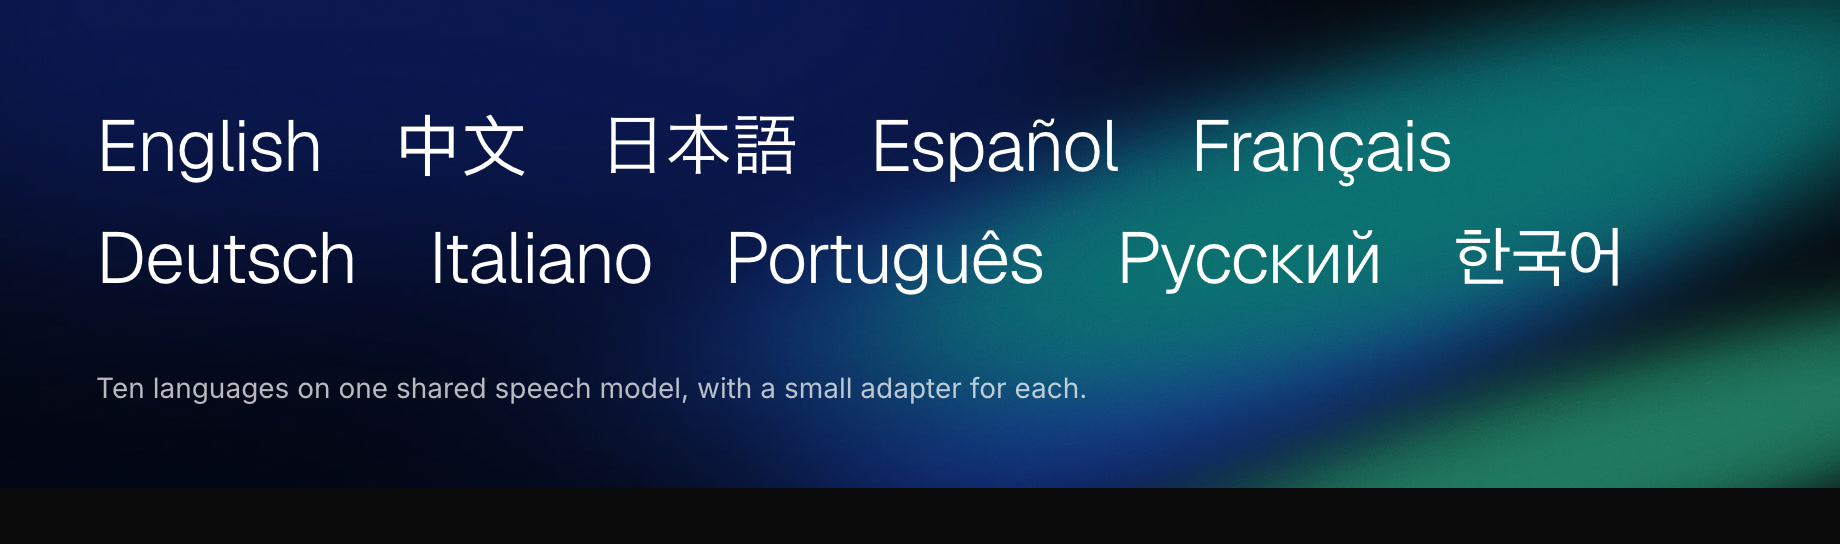
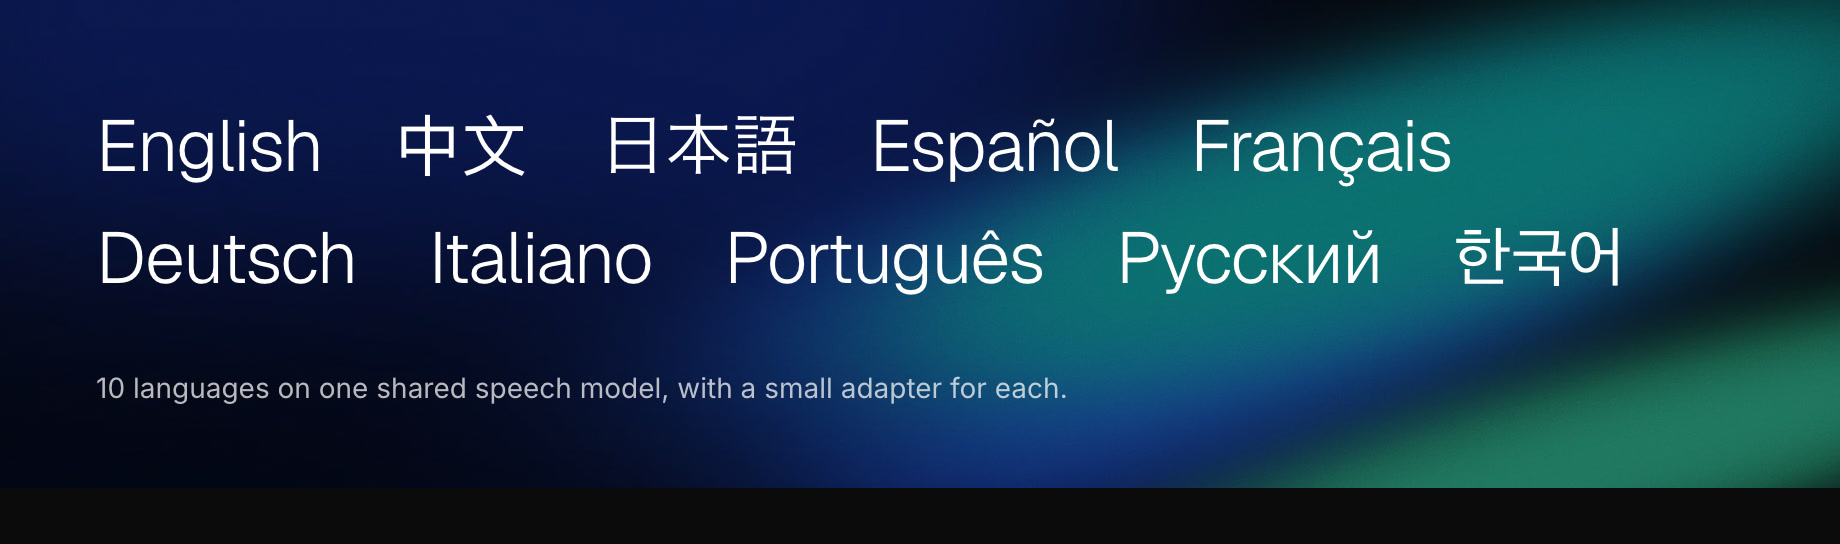
README rebuilt around a key-figures strip, the languages card and an architecture graphic; root folder tidied

Changed region(s): [[0.031, 0.6875, 0.5886, 0.75]]

diff --git a/site/index.html b/site/index.html
@@ -226,7 +226,7 @@ footer p{margin:0}
     <li lang="en">English</li><li lang="zh">中文</li><li lang="ja">日本語</li><li lang="es">Español</li><li lang="fr">Français</li>
     <li lang="de">Deutsch</li><li lang="it">Italiano</li><li lang="pt">Português</li><li lang="ru">Русский</li><li lang="ko">한국어</li>
   </ul>
-  <p>Ten languages on one shared speech model, with a small adapter for each.</p>
+  <p>10 languages on one shared speech model, with a small adapter for each.</p>
 </div>
 <!-- gen:chart-tally -->
 <figure class="chart"><div class="ch-head stack"><figcaption>Comparisons with Azure, by language</figcaption><div class="ch-key"><span><i class="own"></i>Pronunciada significantly better</span><span><i class="same"></i>No significant difference</span><span><i class="behind"></i>Azure significantly better</span></div></div><div class="tl"><div class="tl-row"><span class="tl-name">English</span><span class="tl-bar"><i class="own" style="width:68.42%">13</i><i class="same" style="width:21.05%">4</i><i class="behind" style="width:10.53%">2</i></span><span class="tl-n">of 19</span></div><div class="tl-row"><span class="tl-name">Mandarin</span><span class="tl-bar"><i class="own" style="width:31.58%">6</i><i class="same" style="width:52.63%">10</i></span><span class="tl-n">of 16</span></div><div class="tl-row"><span class="tl-name">Japanese</span><span class="tl-bar"><i class="own" style="width:21.05%">4</i><i class="same" style="width:10.53%">2</i></span><span class="tl-n">of 6</span></div><div class="tl-row"><span class="tl-name">Spanish</span><span class="tl-bar"><i class="own" style="width:21.05%">4</i><i class="same" style="width:10.53%">2</i></span><span class="tl-n">of 6</span></div><div class="tl-row"><span class="tl-name">French</span><span class="tl-bar"><i class="own" style="width:26.32%">5</i><i class="same" style="width:5.26%">1</i></span><span class="tl-n">of 6</span></div><div class="tl-row"><span class="tl-name">German</span><span class="tl-bar"><i class="own" style="width:15.79%">3</i><i class="same" style="width:21.05%">4</i></span><span class="tl-n">of 7</span></div><div class="tl-row"><span class="tl-name">Italian</span><span class="tl-bar"><i class="own" style="width:15.79%">3</i><i class="same" style="width:15.79%">3</i></span><span class="tl-n">of 6</span></div><div class="tl-row"><span class="tl-name">Portuguese</span><span class="tl-bar"><i class="own" style="width:21.05%">4</i><i class="same" style="width:10.53%">2</i></span><span class="tl-n">of 6</span></div><div class="tl-row"><span class="tl-name">Russian</span><span class="tl-bar"><i class="own" style="width:15.79%">3</i><i class="same" style="width:15.79%">3</i></span><span class="tl-n">of 6</span></div><div class="tl-row"><span class="tl-name">Korean</span><span class="tl-bar"><i class="own" style="width:15.79%">3</i><i class="same" style="width:15.79%">3</i></span><span class="tl-n">of 6</span></div></div><p class="ch-foot">84 comparisons on held-out public test sets. Significance is from paired tests at p &lt; 0.05.</p></figure>
@@ -311,7 +311,7 @@ result.coaching()          <span class="c"># detected errors, most severe first<
   <div><dt>Test data</dt><dd>speechocean762, L2-ARCTIC, EpaDB, OMPAL, FLEURS, Common Voice, Heroico, LeaP and the Speech Accent Archive</dd></div>
   <div><dt>Previous versions</dt><dd><a href="v1.0/">1.0</a></dd></div>
   <div><dt>Citing</dt><dd><a href="https://github.com/moglearn/pronunciada/blob/main/CITATION.cff">CITATION.cff</a> in the repository</dd></div>
-  <div><dt>Contributing</dt><dd>Issues and pull requests are welcome on <a href="https://github.com/moglearn/pronunciada">GitHub</a>. See <a href="https://github.com/moglearn/pronunciada/blob/main/CONTRIBUTING.md">CONTRIBUTING.md</a>.</dd></div>
+  <div><dt>Contributing</dt><dd>Issues and pull requests are welcome on <a href="https://github.com/moglearn/pronunciada">GitHub</a>. See <a href="https://github.com/moglearn/pronunciada/blob/main/.github/CONTRIBUTING.md">CONTRIBUTING.md</a>.</dd></div>
 </dl>
 
 <div class="cta">

diff --git a/site/v1.0/index.html b/site/v1.0/index.html
@@ -309,7 +309,7 @@ result.coaching()          <span class="c"># detected errors, most severe first<
   <div><dt>Built on</dt><dd><a href="https://github.com/lingjzhu/zipa">ZIPA</a> (Zhu et al., ACL 2025) and ONNX Runtime</dd></div>
   <div><dt>Test data</dt><dd>speechocean762, L2-ARCTIC, EpaDB, OMPAL, FLEURS and Common Voice</dd></div>
   <div><dt>Citing</dt><dd><a href="https://github.com/moglearn/pronunciada/blob/main/CITATION.cff">CITATION.cff</a> in the repository</dd></div>
-  <div><dt>Contributing</dt><dd>Issues and pull requests are welcome on <a href="https://github.com/moglearn/pronunciada">GitHub</a>. See <a href="https://github.com/moglearn/pronunciada/blob/main/CONTRIBUTING.md">CONTRIBUTING.md</a>.</dd></div>
+  <div><dt>Contributing</dt><dd>Issues and pull requests are welcome on <a href="https://github.com/moglearn/pronunciada">GitHub</a>. See <a href="https://github.com/moglearn/pronunciada/blob/main/.github/CONTRIBUTING.md">CONTRIBUTING.md</a>.</dd></div>
 </dl>
 
 <div class="cta">

diff --git a/scripts/graphics/make_site.py b/scripts/graphics/make_site.py
@@ -141,56 +141,91 @@ def figure_word() -> str:
             f'gets {word["prob"]:.2f}.</p></figure>')
 
 
-HOW_CSS = """
-.how{margin:22px 40px 0;display:grid;grid-template-columns:292px repeat(4,1fr);border-top:1px solid rgba(255,255,255,.14)}
-.how > div{display:flex;align-items:center;justify-content:center;border-bottom:1px solid rgba(255,255,255,.14);padding:22px 0}
-.how .lab{display:block;padding:22px 24px 22px 0}
-.how .lab b{display:flex;align-items:center;gap:12px;font-weight:500;font-size:19px;letter-spacing:-.01em}
-.how .lab b i{flex:none;width:26px;height:26px;border-radius:50%;border:1px solid rgba(255,255,255,.45);font:500 13px/24px 'Geist',sans-serif;font-style:normal;text-align:center}
-.how .lab span{display:block;margin:8px 0 0 38px;font-size:14px;line-height:20px;color:rgba(255,255,255,.62)}
-.how .lab svg{display:block;margin:14px 0 0 38px}
-.how .snd{font-weight:300;font-size:44px;letter-spacing:-.02em;line-height:1}
-.how .none{font-size:19px;color:#7db8ff}
-.how .diff{color:#7db8ff}
-.how .num{font-weight:300;font-size:36px;letter-spacing:-.02em;font-variant-numeric:tabular-nums;line-height:1}
-.how .link > div, .how .link{border-bottom:0}
-.how .link{padding:0;height:34px;font:400 20px/1 'Geist Mono',monospace;color:rgba(255,255,255,.45)}
-.how .link.lab{padding:0}
-.how .link.diff{color:#7db8ff}
-.how .word{grid-column:1/-1;justify-content:flex-end;gap:18px;border-bottom:0;padding:24px 0 0;font-size:17px;color:rgba(255,255,255,.62)}
-.how .word b{font-weight:300;font-size:36px;letter-spacing:-.02em;color:#7db8ff}
+CARD_CSS = """
+*{box-sizing:border-box;margin:0}
+body{margin:0;font-family:'Geist',sans-serif;color:#fff;-webkit-font-smoothing:antialiased}
+.card{position:relative;width:920px;background:linear-gradient(rgba(4,6,10,.40),rgba(4,6,10,.40)),#06080c url(GRADIENT) center/cover}
+.arch{height:506px}
+.arch .head{position:absolute;left:40px;top:34px;display:flex;align-items:center;gap:12px;font-size:21px;letter-spacing:-.02em;color:rgba(255,255,255,.66)}
+.arch .head svg{height:17.5px;display:block}
+.box{position:absolute;border-radius:16px;background:rgba(255,255,255,.09);border:1px solid rgba(255,255,255,.26);backdrop-filter:blur(8px)}
+.in{padding:14px 16px}
+.in b,.zipa small,.group .gh{display:block;font:500 11px/1 'Geist Mono',monospace;letter-spacing:.08em;text-transform:uppercase;color:rgba(255,255,255,.62)}
+.in svg{display:block;margin-top:14px}
+.in p{margin-top:11px;font-size:14.5px;line-height:20px;color:rgba(255,255,255,.92)}
+.zipa{padding:18px 20px;background:rgba(255,255,255,.13);border-color:rgba(255,255,255,.5)}
+.zipa h3{margin:12px 0 2px;font-weight:300;font-size:40px;line-height:1;letter-spacing:-.03em}
+.zipa p{font-size:13.5px;color:rgba(255,255,255,.72)}
+.pill{display:inline-flex;align-items:center;gap:7px;margin-top:14px;height:27px;padding:0 12px 0 9px;border-radius:99px;background:#fff;color:#06080c;font-size:12.5px;font-weight:500;white-space:nowrap}
+.note{position:absolute;font-size:13px;color:rgba(255,255,255,.7)}
+.group{padding:16px 14px 14px;background:rgba(4,6,10,.34);border-color:rgba(255,255,255,.22)}
+.group .gh{display:flex;justify-content:space-between;padding:0 4px 13px}
+.group .gh span{color:#fff}
+.tiles{display:grid;grid-template-columns:1fr 1fr;gap:10px}
+.tile{height:86px;padding:13px 14px;border-radius:12px}
+.tile.wide{grid-column:1/-1;height:70px}
+.tile b{display:block;font-weight:500;font-size:14.5px;line-height:18px;letter-spacing:-.005em}
+.tile span{display:block;margin-top:5px;font-size:12px;line-height:15px;color:rgba(255,255,255,.86)}
+.out{position:absolute;width:86px;text-align:center}
+.out em{display:block;font:500 11px/1 'Geist Mono',monospace;letter-spacing:.08em;text-transform:uppercase;font-style:normal;color:rgba(255,255,255,.62);margin-bottom:12px}
+.out i{display:block;height:36px;margin-bottom:9px;border-radius:99px;background:#fff;color:#06080c;font:500 13.5px/36px 'Geist',sans-serif;font-style:normal}
+.arch .cap{position:absolute;left:40px;right:40px;bottom:30px;font-size:14.5px;line-height:21px;color:rgba(255,255,255,.8)}
+svg.wires{position:absolute;left:0;top:0}
+.stats{display:grid;grid-template-columns:1.25fr .8fr 1fr 1.15fr;gap:0 36px;padding:40px 44px 38px}
+.stats b{display:block;font-weight:300;font-size:58px;line-height:1;letter-spacing:-.04em;white-space:nowrap;font-variant-numeric:tabular-nums}
+.stats b small{font-size:25px;letter-spacing:-.02em;color:rgba(255,255,255,.72);margin-left:5px}
+.stats span{display:block;margin-top:14px;font-size:14.5px;line-height:20px;color:rgba(255,255,255,.78)}
 """
+TILES = (("linear-gradient(135deg,#2f6bff,#1b93d6)", "Adapter", "corrects ZIPA's habits in each language", ""),
+         ("linear-gradient(135deg,#1b93d6,#12b3a6)", "Tone, stress, length", "read from ZIPA's inner layers", ""),
+         ("linear-gradient(135deg,#3f5cf6,#2f8cf0)", "Sound-by-sound scoring", "said, replaced or dropped", ""),
+         ("linear-gradient(135deg,#12b3a6,#25c08a)", "Calibration", "fitted on expert-scored speech", ""),
+         ("linear-gradient(90deg,#2a55d8,#16a7b8)", "Dictionary and sound rules", "the sounds the text should contain", " wide"))
 
 
-def figure_how() -> str:
-    """How one word is scored, as three steps: the sounds in the text, the sounds heard, the score of each."""
+def figure_architecture() -> str:
+    """How it works: the recording goes through ZIPA as released, and Pronunciada's small models do the scoring."""
     import soundfile as sf
+    from make_logo import wordmark
 
     sample = ROOT / "site/samples/en-learner-1"
-    word = next(w for w in json.loads(sample.with_suffix(".json").read_text(encoding="utf-8"))["result"]["words"] if w["prob"] < 0.5)
-    phones = word["phones"]
     audio, sr = sf.read(str(sample.with_suffix(".mp3")), dtype="float32", always_2d=True)
-    mono = audio.mean(axis=1)[int((word["start"] - 0.08) * sr):int((word["end"] + 0.08) * sr)]
-    n = 42
+    mono = audio.mean(axis=1)
+    n = 22
     step = len(mono) // n
     level = [float(abs(mono[i * step:(i + 1) * step]).max()) for i in range(n)]
     top = max(level)
-    bars = "".join(f'<rect x="{i * 5}" y="{17 - max(1.5, v / top * 16):.1f}" width="3" height="{2 * max(1.5, v / top * 16):.1f}" rx="1.5" fill="#fff"/>'
+    bars = "".join(f'<rect x="{i * 5.4:.1f}" y="{15 - max(1.5, (v / top) ** .7 * 14):.1f}" width="3" height="{2 * max(1.5, (v / top) ** .7 * 14):.1f}" rx="1.5" fill="#fff"/>'
                    for i, v in enumerate(level))
-    wave = f'<svg width="{n * 5}" height="34" viewBox="0 0 {n * 5} 34">{bars}</svg>'
-    same = lambda p: p["heard"] is None
-    lab = lambda k, title, text, extra="": f'<div class="lab"><b><i>{k}</i>{title}</b><span>{text}</span>{extra}</div>'
-    cells = [lab(1, "The text", f"the sounds “{esc(word['text'])}” should contain")]
-    cells += [f'<div class="snd">{esc(p["ipa"])}</div>' for p in phones]
-    cells += ['<div class="link lab"></div>'] + [f'<div class="link{"" if same(p) else " diff"}">{"=" if same(p) else "≠"}</div>' for p in phones]
-    cells += [lab(2, "The recording", "the sounds the speech model hears, without seeing the text", wave)]
-    cells += [f'<div class="snd">{esc(p["ipa"])}</div>' if same(p) else
-              (f'<div class="snd diff">{esc(p["heard"])}</div>' if p["heard"] else '<div class="none">nothing</div>') for p in phones]
-    cells += ['<div class="link lab"></div>'] + ['<div class="link">↓</div>' for _ in phones]
-    cells += [lab(3, "The score", "the probability that a teacher would accept each sound")]
-    cells += [f'<div class="num{"" if p["prob"] >= 0.5 else " diff"}">{p["prob"]:.2f}</div>' for p in phones]
-    cells += [f'<div class="word">the word “{esc(word["text"])}”<b>{word["prob"]:.2f}</b></div>']
-    return f'<div class="how">{"".join(cells)}</div>'
+    snow = ('<svg width="13" height="13" viewBox="0 0 13 13" fill="none" stroke="#06080c" stroke-width="1.3" stroke-linecap="round">'
+            '<path d="M6.5 1v11M1.7 3.75l9.6 5.5M11.3 3.75l-9.6 5.5"/></svg>')
+    tiles = "".join(f'<div class="tile{cls}" style="background:{bg}"><b>{name}</b><span>{what}</span></div>' for bg, name, what, cls in TILES)
+    mb = round(sum(f.stat().st_size for f in (ROOT / "pronunciada/data").rglob("*") if f.is_file()) / 1e6)     # models and dictionaries
+    arrow = lambda x1, y, x2: (f'<path d="M{x1} {y}H{x2 - 2}" stroke="rgba(255,255,255,.75)" stroke-width="1.5"/>'
+                               f'<path d="M{x2 - 7} {y - 5}l6 5-6 5" fill="none" stroke="rgba(255,255,255,.75)" stroke-width="1.5" stroke-linejoin="round" stroke-linecap="round"/>')
+    wires = f'<svg class="wires" width="920" height="506">{arrow(190, 172, 232)}{arrow(428, 172, 470)}{arrow(190, 354, 470)}{arrow(772, 262, 800)}</svg>'
+    return (f'<div class="card arch"><div class="head">{wordmark("#ffffff")}<span>How it works</span></div>'
+            f'<div class="box in" style="left:40px;top:126px;width:150px;height:92px"><b>Recording</b><svg width="120" height="30">{bars}</svg></div>'
+            f'<div class="box in" style="left:40px;top:308px;width:150px;height:92px"><b>Text</b><p>“…a beautiful day for a float”</p></div>'
+            f'<div class="box zipa" style="left:232px;top:96px;width:196px;height:152px"><small>Open speech model</small><h3>ZIPA</h3><p>64M parameters</p>'
+            f'<span class="pill">{snow}frozen, not fine-tuned</span></div>'
+            f'<div class="note" style="left:232px;top:262px;width:196px">One model for all 10 languages, used exactly as released.</div>'
+            f'<div class="box group" style="left:470px;top:84px;width:302px;height:318px"><div class="gh"><span>Pronunciada</span>{mb} MB in total</div>'
+            f'<div class="tiles">{tiles}</div></div>'
+            f'<div class="out" style="left:800px;top:176px"><em>Scores</em><i>sound</i><i>word</i><i>sentence</i></div>'
+            f'{wires}<p class="cap">The speech model is never retrained. Pronunciada adds small models and dictionaries around it, {mb} MB for all 10 languages, '
+            'and they do the scoring.</p></div>')
+
+
+def figure_stats() -> str:
+    """The key figures as one strip."""
+    rows = tally()
+    ahead, behind = sum(r[2] for r in rows), sum(r[4] for r in rows)
+    quiet = json.loads((ROOT / "results/tables/learner_benchmark_cost/quiet/pronunciada-int8__t4.json").read_text(encoding="utf-8"))
+    size = round(next(w["mb"] for w in quiet["weight_files"] if w["file"].startswith("model")))
+    cells = [(f"{ahead}–{behind}", "significant wins and losses against Azure"), (f"{len(rows)}", "languages"),
+             (f"{size}<small>MB</small>", "small model"), (f"{round(quiet['p50_s'] * 1000)}<small>ms</small>", "per sentence on a laptop CPU")]
+    return '<div class="card stats">' + "".join(f"<div><b>{n}</b><span>{label}</span></div>" for n, label in cells) + "</div>"
 
 
 def readme_images() -> None:
@@ -202,11 +237,10 @@ def readme_images() -> None:
             f"--page:{INK};--card:{INK};--pale:#34343a;--accent:linear-gradient(90deg,#7db8ff,#5eead4)}}"
             f"body{{background:{INK}}}.chart{{box-shadow:none;margin:0;border-radius:0;padding:36px 40px 30px}}.langs{{margin:0;border-radius:0}}")
     head = f"<!doctype html><html><head><meta charset='utf-8'><style>{font_css()}{css}{dark}</style></head><body>"
-    from make_charts import CSS as DARK_CSS, page as dark_page
-    how = dark_page("How a word is scored", figure_how(),
-                    "A learner from the speechocean762 test set says “float” without its l. The speech model hears no l and a different "
-                    "vowel, so those two sounds score low and so does the word.", legend=())
-    render(how.replace(DARK_CSS, DARK_CSS + HOW_CSS), ROOT / "docs/assets/figure-how.png", 920, 692)
+    gradient = (ROOT / "site/assets/gradient.jpg").as_uri()
+    card = f"<!doctype html><html><head><meta charset='utf-8'><style>{font_css()}{CARD_CSS.replace('GRADIENT', gradient)}</style></head><body>"
+    render(card + figure_architecture() + "</body></html>", ROOT / "docs/assets/architecture.jpg", 920, 506)
+    render(card + figure_stats() + "</body></html>", ROOT / "docs/assets/stats.jpg", 920, 196)
     langs = re.search(r'<div class="langs">.*?</div>', page, re.S).group(0)
     render(head.replace("url(assets/gradient.jpg)", f"url('{(ROOT / 'site/assets/gradient.jpg').as_uri()}')") + langs + "</body></html>",
            ROOT / "docs/assets/languages.jpg", 920, 272)
@@ -223,9 +257,9 @@ if __name__ == "__main__":
         block = make()
         page = pattern.sub(lambda m: f"{m.group(1)}\n{block}\n{m.group(2)}", page)
     PAGE.write_text(page, encoding="utf-8")
-    space = ROOT / "space_static/index.html"          # the Hugging Face Space page repeats the key figures
+    space = ROOT / "huggingface/space_static/index.html"          # the Hugging Face Space page repeats the key figures
     text = space.read_text(encoding="utf-8")
     space.write_text(re.sub(r"(<!-- gen:stats -->).*?(<!-- /gen:stats -->)", lambda m: f"{m.group(1)}\n{stats()}\n{m.group(2)}", text, flags=re.S),
                      encoding="utf-8")
     readme_images()
-    print(f"filled {len(BLOCKS)} blocks in site/index.html and the figures in space_static/index.html; wrote docs/assets/figure-how.png and languages.jpg")
+    print(f"filled {len(BLOCKS)} blocks in site/index.html and the figures in huggingface/space_static/index.html; wrote docs/assets/architecture.jpg, stats.jpg and languages.jpg")

diff --git a/scripts/graphics/make_charts.py b/scripts/graphics/make_charts.py
@@ -232,7 +232,7 @@ if __name__ == "__main__":
                 f"Held-out test sets; L2-ARCTIC and EpaDB were not used in training. Lines show 95% confidence intervals. {star}"),
            out / "chart-detection.png", W, height(len(d), 64, 34 + 112))
     l = languages()
-    render(page("Ten languages: changed-word detection", dumbbell(l),
+    render(page("10 languages: changed-word detection", dumbbell(l),
                 "Native FLEURS test recordings, 150 per language, scored against a reference with one word replaced by a "
                 f"word one phoneme away. Area under the ROC curve for the replaced word, higher is better. Not a test on learner speech. {star}"),
            out / "chart-languages.png", W, height(len(l), 38, 40 + 112))

diff --git a/bench/third_party/lingolix_live.py b/bench/third_party/lingolix_live.py
@@ -549,7 +549,7 @@ class Response:
 
 
 class RequestsTransport:
-    """The real one (requests, already in requirements-bench.txt)."""
+    """The real one (requests, already in requirements/bench.txt)."""
 
     def post(self, url: str, *, headers: dict, data: dict, file: tuple, timeout: float) -> Response:
         import requests

diff --git a/README.md b/README.md
@@ -2,17 +2,34 @@
   <img src="docs/assets/banner.jpg" alt="Pronunciada: on-device pronunciation assessment with cloud-level accuracy. The waveform of a learner saying 'It was a beautiful day for a float', cut at the word boundaries, with the probability given to each word." width="100%">
 </p>
 
-# Pronunciada
+<h1 align="center">Pronunciada</h1>
 
-[![PyPI](https://img.shields.io/pypi/v/pronunciada)](https://pypi.org/project/pronunciada/)
-[![CI](https://github.com/moglearn/pronunciada/actions/workflows/ci.yml/badge.svg)](https://github.com/moglearn/pronunciada/actions/workflows/ci.yml)
-[![License](https://img.shields.io/badge/license-Apache--2.0-blue)](LICENSE)
+<p align="center">
+  On-device pronunciation assessment with cloud-level accuracy.<br>
+  Open source · 10 languages · 71 MB
+</p>
 
-[Website](https://pronunciada.dev) · [PyPI](https://pypi.org/project/pronunciada/) · [Hugging Face](https://huggingface.co/kimitonatsu/pronunciada) · [Benchmarks](#benchmarks) · [Scoreboard](results/SCOREBOARD.md) · [How it works](#how-it-works)
+<p align="center">
+  <a href="https://pypi.org/project/pronunciada/"><img src="https://img.shields.io/pypi/v/pronunciada" alt="PyPI version"></a>
+  <a href="https://pypi.org/project/pronunciada/"><img src="https://img.shields.io/pypi/pyversions/pronunciada" alt="Python versions"></a>
+  <a href="https://github.com/moglearn/pronunciada/actions/workflows/ci.yml"><img src="https://github.com/moglearn/pronunciada/actions/workflows/ci.yml/badge.svg" alt="CI"></a>
+  <a href="LICENSE"><img src="https://img.shields.io/badge/license-Apache--2.0-blue" alt="License: Apache-2.0"></a>
+</p>
 
-Pronunciada scores a language learner's pronunciation sound by sound, in ten languages, on the learner's own device. It is open source, and it is the state of the art for on-device pronunciation assessment. Against Microsoft Azure's cloud service it comes out ahead in all ten languages: across 84 public tests it is significantly better on 48 and worse on 2.
+<p align="center">
+  <a href="https://pronunciada.dev">Website</a> ·
+  <a href="#quick-start">Quick start</a> ·
+  <a href="#benchmarks">Benchmarks</a> ·
+  <a href="#how-it-works">How it works</a> ·
+  <a href="https://pypi.org/project/pronunciada/">PyPI</a> ·
+  <a href="https://huggingface.co/kimitonatsu/pronunciada">Hugging Face</a>
+</p>
+
+Pronunciada scores a language learner's pronunciation sound by sound, in 10 languages, on the learner's own device. It is open source, and it is the state of the art for on-device pronunciation assessment. Against Microsoft Azure's cloud service it comes out ahead in all 10 languages: across 84 public tests it is significantly better on 48 and worse on 2.
 
 It needs no GPU and no network. A sentence is scored in about 40 ms on a laptop CPU with a 71 MB model, and the audio never leaves the machine.
+
+![Key figures: 48 significant wins and 2 losses against Azure, 10 languages, a 71 MB small model, 41 ms per sentence on a laptop CPU.](docs/assets/stats.jpg)
 
 https://github.com/user-attachments/assets/b8641ae2-621a-49da-9b09-d404ec9887eb
 
@@ -67,11 +84,11 @@ Most language-learning apps buy their pronunciation scores from a cloud service,
 
 ![Head-to-head comparisons with Azure by language. Significantly ahead, no significant difference, significantly behind: English 13, 4, 2. Mandarin 6, 10, 0. Japanese 4, 2, 0. Spanish 4, 2, 0. French 5, 1, 0. German 3, 4, 0. Italian 3, 3, 0. Portuguese 4, 2, 0. Russian 3, 3, 0. Korean 3, 3, 0.](docs/assets/chart-tally.png)
 
-Pronunciada is significantly better on 48 of the tests and Azure on 2. The other 34 show no significant difference. In each of the ten languages Pronunciada wins more tests than it loses. Azure's two wins are both in English: it marks a native speaker's words down a little less often, and it is better at telling native from non-native speakers in one test on Common Voice recordings.
+Pronunciada is significantly better on 48 of the tests and Azure on 2. The other 34 show no significant difference. In each of the 10 languages Pronunciada wins more tests than it loses. Azure's two wins are both in English: it marks a native speaker's words down a little less often, and it is better at telling native from non-native speakers in one test on Common Voice recordings.
 
-One test covers all ten languages in the same way. A native recording is scored against a text in which one word was replaced by a word one sound away, and the system has to notice the mismatch. It is not a test on learner speech.
+One test covers all 10 languages in the same way. A native recording is scored against a text in which one word was replaced by a word one sound away, and the system has to notice the mismatch. It is not a test on learner speech.
 
-![Changed-word detection in ten languages, Pronunciada and Azure. English 0.981 and 0.963, Mandarin 0.979 and 0.966, Japanese 0.976 and 0.919, Spanish 0.994 and 0.942, French 0.986 and 0.937, German 0.979 and 0.887, Italian 0.979 and 0.970, Portuguese 0.967 and 0.938, Russian 0.909 and 0.909, Korean 0.974 and 0.937.](docs/assets/chart-languages.png)
+![Changed-word detection in 10 languages, Pronunciada and Azure. English 0.981 and 0.963, Mandarin 0.979 and 0.966, Japanese 0.976 and 0.919, Spanish 0.994 and 0.942, French 0.986 and 0.937, German 0.979 and 0.887, Italian 0.979 and 0.970, Portuguese 0.967 and 0.938, Russian 0.909 and 0.909, Korean 0.974 and 0.937.](docs/assets/chart-languages.png)
 
 The most direct tests use recordings of learners that experts have graded by hand, which are public for English and Mandarin. Pronunciada agrees with the experts more closely than Azure on individual sounds, on words and on sentence accuracy. On English intonation the two are level.
 
@@ -81,8 +98,6 @@ It is also better at finding the sounds and the Mandarin tones that teachers mar
 
 ![Area under the ROC curve for detecting mispronunciations, Pronunciada and Azure. L2-ARCTIC 0.712 and 0.631, EpaDB 0.721 and 0.587, Mandarin words with any error 0.790 and 0.704, Mandarin words with tone errors 0.777 and 0.679.](docs/assets/chart-detection.png)
 
-Pronunciada is built on [ZIPA](https://github.com/lingjzhu/zipa), an open speech model, and adds the scoring around it. On the same learner tests it is significantly more accurate than ZIPA alone on 48 of 60, and less accurate on none.
-
 These results use the full 260 MB model. The 71 MB model is slightly behind it, with 47 wins and 4 losses against Azure. On an Apple M3 Pro it scores a 3.4-second sentence in about 40 ms with four CPU threads and 65 ms with one, and uses about 0.3 GB of memory. A request to Azure for a nine-second sentence took about two seconds from the same laptop.
 
 Every test and its confidence interval is in the [scoreboard](results/SCOREBOARD.md). Azure was called through its REST API (region `westus`) in November 2026 and was not tuned on any of this data.
@@ -90,6 +105,8 @@ Every test and its confidence interval is in the [scoreboard](results/SCOREBOARD
 [Full real-learner benchmarks against OpenPronounce, Lingolix, and Chivox →](https://pronunciada.dev/benchmarks/)
 
 ## Supported languages
+
+![English, Chinese, Japanese, Spanish, French, German, Italian, Portuguese, Russian and Korean, each written in its own script.](docs/assets/languages.jpg)
 
 | Language | Code | Install | Also scored |
 | --- | --- | --- | --- |
@@ -131,14 +148,18 @@ Pronunciada also runs outside Python:
 
 ## How it works
 
-![How a word is scored, in three steps. The text: the word "float" should contain the sounds f, l, oʊ, t. The recording: the speech model hears f, nothing, ɔ, t. The score: 0.83, 0.27, 0.35, 0.56, and 0.10 for the word.](docs/assets/figure-how.png)
+![How it works. The recording goes into ZIPA, an open speech model with 64M parameters that is frozen and not fine-tuned. The text goes into Pronunciada's dictionary and sound rules. Pronunciada's adapter, sound-by-sound scoring, tone, stress and length models and calibration, 36 MB in total, turn ZIPA's output into scores for each sound, word and sentence.](docs/assets/architecture.jpg)
 
-The text is turned into the sounds a speaker should produce, using a dictionary and the sound rules of each language. ZIPA listens to the recording and reports the sounds it hears, without seeing the text. For every expected sound, Pronunciada weighs three explanations: it was said, it was replaced by another sound, or it was dropped. Small models fitted on expert-scored speech turn that evidence into the probabilities you get back, and separate small models handle tone, stress and length. No large model was trained for this project. The details are in [docs/DESIGN.md](docs/DESIGN.md).
+Pronunciada does not retrain a speech model. [ZIPA](https://github.com/lingjzhu/zipa), an open phone recognizer, is used exactly as released for all 10 languages. It listens to the recording and reports the sounds it hears, without seeing the text.
+
+Everything Pronunciada adds sits around ZIPA and comes to 36 MB. A dictionary and the sound rules of each language turn the text into the sounds a speaker should produce. A small adapter corrects ZIPA's habits in each language. For every expected sound, the scorer weighs three explanations: it was said, it was replaced by another sound, or it was dropped. Calibration models fitted on expert-scored speech turn that evidence into the probabilities you get back, and separate small models read tone, stress and length from ZIPA's inner layers.
+
+On the same learner tests, this is significantly more accurate than ZIPA alone on 48 of 60, and less accurate on none. The design is described in [docs/DESIGN.md](docs/DESIGN.md).
 
 ## Limitations
 
 - The text being read is required. For free speech, transcribe first and pass the transcript.
-- Agreement with expert scores has been measured for English and Mandarin only. For the other eight languages the evidence is native speech with altered text, and Common Voice recordings judged by volunteers.
+- Agreement with expert scores has been measured for English and Mandarin only. For the other 8 languages the evidence is native speech with altered text, and Common Voice recordings judged by volunteers.
 - A native English speaker's words are marked down a little more often than by Azure: about 3% score below 0.6, against about 2%.
 - Coaching tips still appear on 9% to 40% of native speakers' sentences, depending on the language.
 - Italian double consonants and Portuguese nasal vowels are detected poorly, and Japanese pitch accent is not scored ([results/contrast_audit.md](results/contrast_audit.md)).

diff --git a/docs/text_cjk_notes.md b/docs/text_cjk_notes.md
@@ -2,7 +2,7 @@
 
 Modules: `pronunciada/text/zh.py`, `ja.py`, `ko.py`, shared helpers `pronunciada/text/_cjk_common.py`,
 hand-written tables in `pronunciada/data/cjk/`. Tests: `tests/test_text_cjk_{zh,ja,ko}.py` (offline).
-Runtime packages: `requirements-text-cjk.txt`.
+Runtime packages: `requirements/text-cjk.txt`.
 
 ## Provenance and licenses
 
